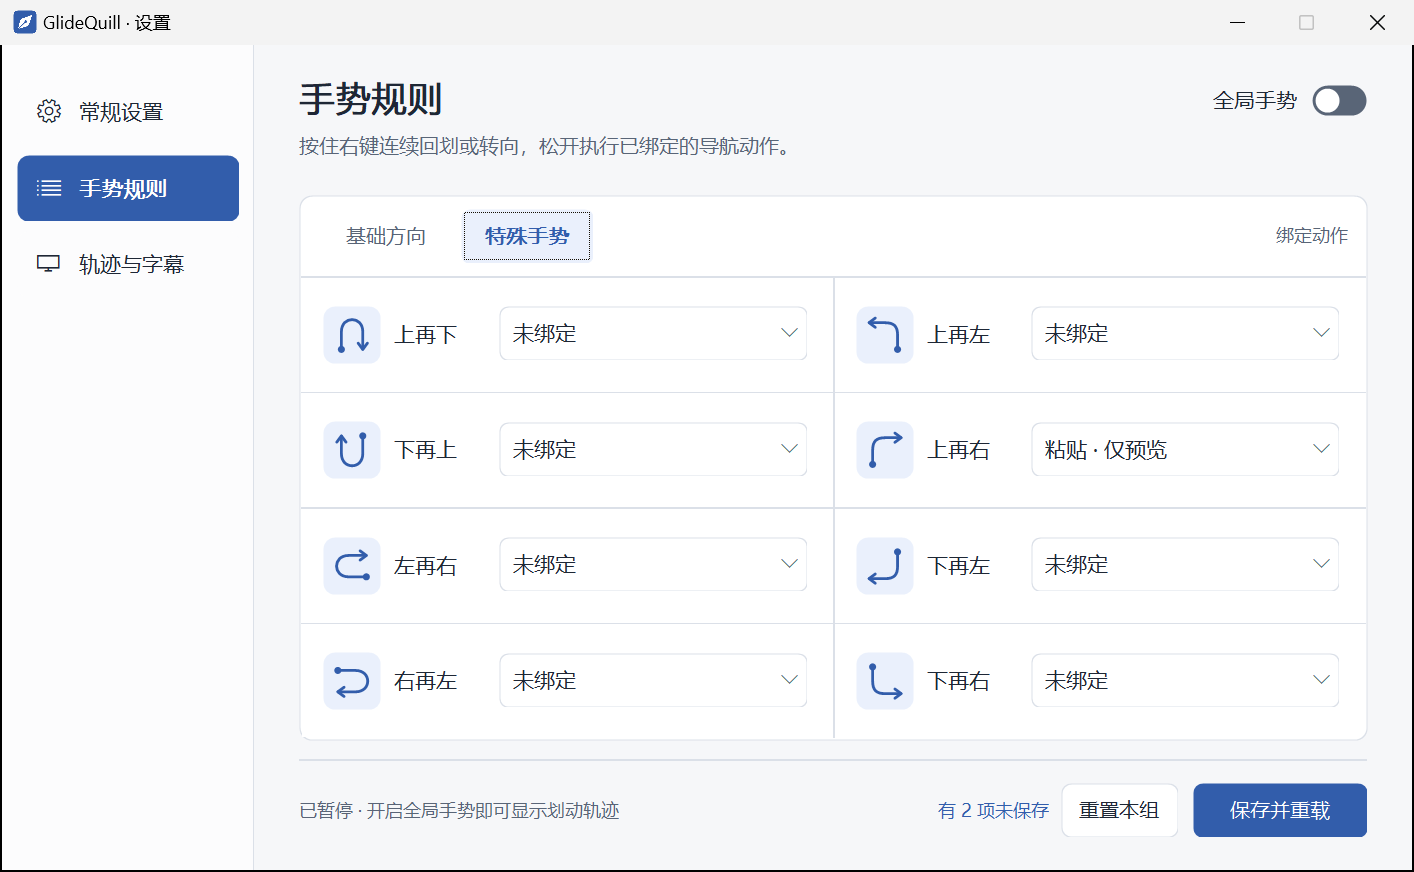
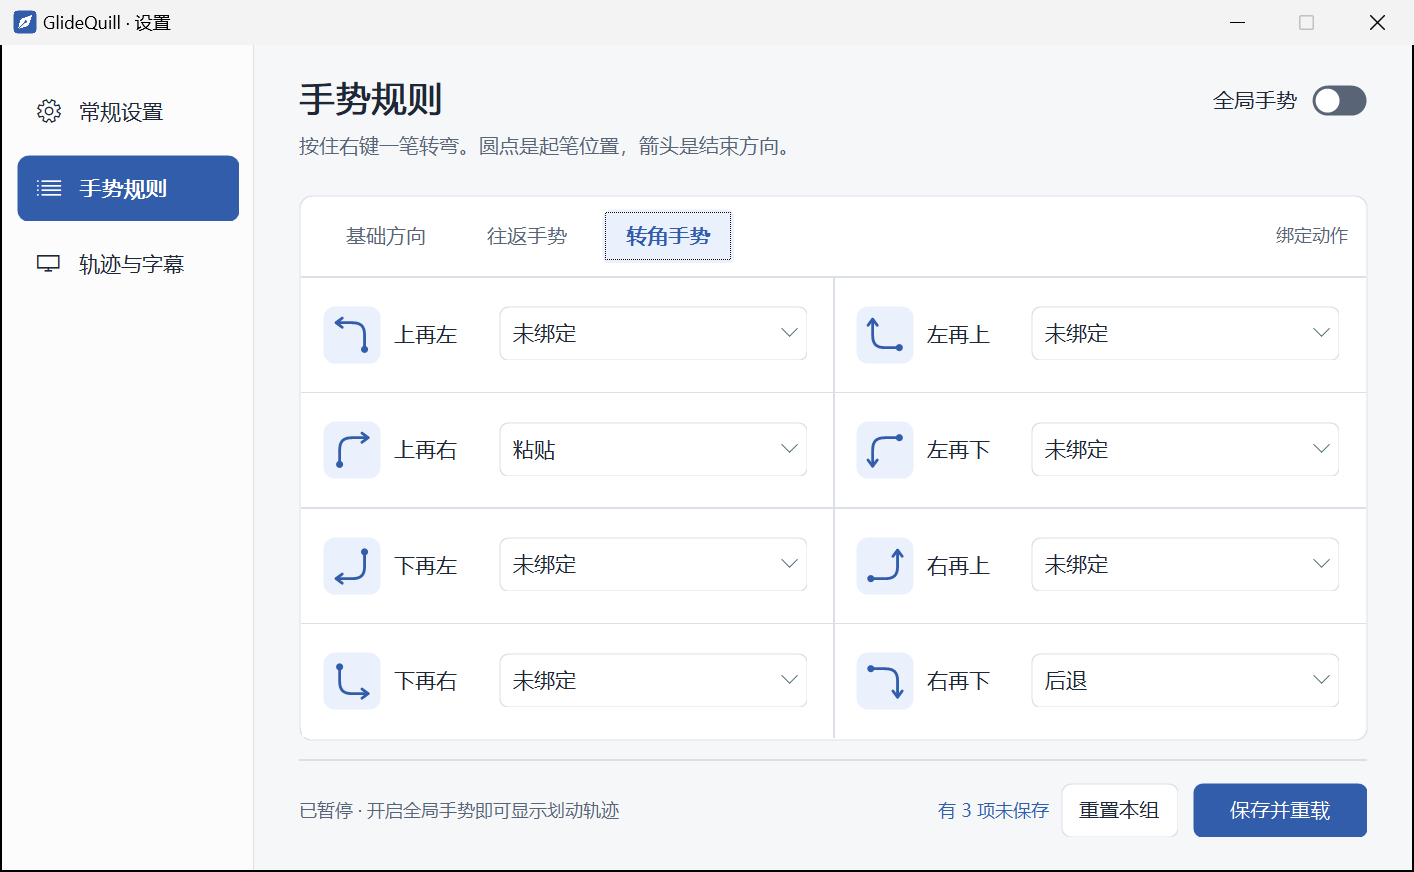
feat(gestures): recognize and configure all eight corner strokes
Append four horizontal-first corners while retaining legacy binding indices. Separate directional, return, and corner rules and verify their draft, reset, and reload behavior. Track the remaining MouseInc feature groups in the Windows requirements.

diff --git a/src/ui.rs b/src/ui.rs
@@ -595,10 +595,20 @@ fn control_bounds(id: i32) -> [i32; 4] {
             [l.right - space - 94, y, 94, h]
         }
         TOGGLE => [l.right - 113, 20, 113, 34],
-        BASIC_TAB if l.roomy => [l.left + 14, l.card_top + 9, 88, 36],
-        SPECIAL_TAB if l.roomy => [l.left + 108, l.card_top + 9, 88, 36],
-        BASIC_TAB => [l.left + 10, l.card_top + 7, 80, 30],
-        SPECIAL_TAB => [l.left + 96, l.card_top + 7, 80, 30],
+        BASIC_TAB | RETURN_TAB | CORNER_TAB => {
+            let (inset, gap, width, height) = if l.roomy {
+                (14, 6, 88, 36)
+            } else {
+                (10, 5, 77, 30)
+            };
+            let column = RULE_TABS.iter().position(|&tab| tab == id).unwrap() as i32;
+            [
+                l.left + inset + column * (width + gap),
+                l.card_top + (if l.roomy { 9 } else { 7 }),
+                width,
+                height,
+            ]
+        }
         RESET_RULES if l.roomy => [l.right - 204, l.height - 58, 78, 36],
         SAVE_RULES if l.roomy => [l.right - 116, l.height - 58, 116, 36],
         RESET_RULES => [l.right - 180, l.height - 48, 68, 32],
@@ -635,9 +645,16 @@ fn control_bounds(id: i32) -> [i32; 4] {
         ],
         _ => {
             let picker = id >= PICKER;
-            let index = (id - if picker { PICKER } else { RULE_ROW }) % BASIC_COUNT as i32;
-            let x = l.left + 1 + index / 4 * l.column;
-            let y = l.row_start + index % 4 * l.row_height;
+            let index = (id - if picker { PICKER } else { RULE_ROW }) as usize;
+            let (slot, rows) = if index < BASIC_COUNT {
+                (index, 4)
+            } else if index < FIRST_CORNER {
+                (index - BASIC_COUNT, 2)
+            } else {
+                (index - FIRST_CORNER, 4)
+            };
+            let x = l.left + 1 + (slot / rows) as i32 * l.column;
+            let y = l.row_start + (slot % rows) as i32 * l.row_height;
             let (label, height, gap) = if l.roomy {
                 (132, 36, 18)
             } else {
@@ -675,7 +692,8 @@ fn controls() -> impl Iterator<Item = i32> {
         LINGER,
         RESULT,
         BASIC_TAB,
-        SPECIAL_TAB,
+        RETURN_TAB,
+        CORNER_TAB,
         RESET_RULES,
         SAVE_RULES,
     ]
@@ -697,7 +715,7 @@ fn visible_on(id: i32, page: Page) -> bool {
         ADD_APP | REMOVE_APP | SAVE_APPS | BACK | APP_LIST => page == Page::Exclusions,
         DIRTY_RULES => page == Page::Rules,
         TOGGLE => matches!(page, Page::Rules | Page::General),
-        RESET_RULES | SAVE_RULES | BASIC_TAB | SPECIAL_TAB => page == Page::Rules,
+        RESET_RULES | SAVE_RULES | BASIC_TAB | CORNER_TAB | RETURN_TAB => page == Page::Rules,
         id if (RULE_ROW..RULE_ROW + COUNT).contains(&id) => {
             page == Page::Rules && rule_range().contains(&((id - RULE_ROW) as usize))
         }
@@ -838,7 +856,8 @@ pub unsafe fn build() {
             (Page::Feedback as i32, Page::Feedback.title()),
             (TOGGLE, "启用全局手势"),
             (BASIC_TAB, "基础方向"),
-            (SPECIAL_TAB, "特殊手势"),
+            (RETURN_TAB, "往返手势"),
+            (CORNER_TAB, "转角手势"),
             (RESET_RULES, "重置本组"),
             (SAVE_RULES, "保存并重载"),
             (AUTOSTART, "启用登录自启"),
@@ -1008,12 +1027,15 @@ unsafe fn stop_slide(w: HWND, id: i32) {
 }
 fn adjacent_control(id: i32, key: usize) -> Option<i32> {
     use windows_sys::Win32::UI::Input::KeyboardAndMouse::{VK_DOWN, VK_LEFT, VK_RIGHT, VK_UP};
-    if matches!(id, BASIC_TAB | SPECIAL_TAB) && matches!(key as u16, VK_LEFT | VK_RIGHT) {
-        return Some(if id == BASIC_TAB {
-            SPECIAL_TAB
+    if let Some(index) = RULE_TABS.iter().position(|&tab| tab == id)
+        && matches!(key as u16, VK_LEFT | VK_RIGHT)
+    {
+        let step = if key as u16 == VK_LEFT {
+            RULE_TABS.len() - 1
         } else {
-            BASIC_TAB
-        });
+            1
+        };
+        return Some(RULE_TABS[(index + step) % RULE_TABS.len()]);
     }
     let index = Page::ALL.iter().position(|p| *p as i32 == id)?;
     let len = Page::ALL.len();
@@ -1242,8 +1264,11 @@ pub unsafe fn paint(w: HWND) {
             0,
         );
         let description = match page {
-            Page::Rules if SPECIAL_GROUP.with(Cell::get) => {
-                "按住右键连续回划或转向，松开执行已绑定的动作。"
+            Page::Rules if ACTIVE_TAB.get() == RETURN_TAB => {
+                "按住右键连续回划，沿小弧线返回后松开。"
+            }
+            Page::Rules if ACTIVE_TAB.get() == CORNER_TAB => {
+                "按住右键一笔转弯。圆点是起笔位置，箭头是结束方向。"
             }
             Page::Rules => "松开右键执行绑定动作。修改绑定后点击「保存并重载」。",
             Page::General => "管理手势的运行状态、生效范围与窗口外观。",
@@ -1260,13 +1285,14 @@ pub unsafe fn paint(w: HWND) {
             0,
         );
         if page == Page::Rules {
+            let rows = rule_range().len() as i32 / 2;
             panel(
                 dc,
                 bounds(
                     l.left,
                     l.card_top,
                     l.right,
-                    l.row_start + l.row_height * 4 + 1,
+                    l.row_start + l.row_height * rows + 1,
                 ),
                 p.surface,
                 p.edge,
@@ -1281,7 +1307,7 @@ pub unsafe fn paint(w: HWND) {
                 p.muted,
                 DT_RIGHT,
             );
-            for row in 0..4 {
+            for row in 0..rows {
                 let y = l.row_start + row * l.row_height;
                 fill(dc, bounds(l.left + 1, y, l.right - 1, y + 1), p.edge);
             }
@@ -1291,7 +1317,7 @@ pub unsafe fn paint(w: HWND) {
                     l.left + 1 + l.column,
                     l.row_start + 1,
                     l.left + 2 + l.column,
-                    l.row_start + 4 * l.row_height,
+                    l.row_start + rows * l.row_height,
                 ),
                 p.edge,
             );
@@ -1443,8 +1469,8 @@ pub unsafe fn item(item: &DRAWITEMSTRUCT) {
                     0,
                 );
             }
-        } else if id == BASIC_TAB || id == SPECIAL_TAB {
-            let active = (id == SPECIAL_TAB) == SPECIAL_GROUP.with(Cell::get);
+        } else if RULE_TABS.contains(&id) {
+            let active = id == ACTIVE_TAB.get();
             fill(dc, r, p.surface);
             rounded(
                 dc,

diff --git a/src/lib.rs b/src/lib.rs
@@ -19,9 +19,13 @@ pub enum Gesture {
     UpThenRight,
     DownThenLeft,
     DownThenRight,
+    LeftThenUp,
+    LeftThenDown,
+    RightThenUp,
+    RightThenDown,
 }
 pub const BASIC_COUNT: usize = 8;
-pub const GESTURES: [Gesture; 16] = [
+pub const GESTURES: [Gesture; 20] = [
     Gesture::Left,
     Gesture::Right,
     Gesture::Up,
@@ -38,6 +42,10 @@ pub const GESTURES: [Gesture; 16] = [
     Gesture::UpThenRight,
     Gesture::DownThenLeft,
     Gesture::DownThenRight,
+    Gesture::LeftThenUp,
+    Gesture::LeftThenDown,
+    Gesture::RightThenUp,
+    Gesture::RightThenDown,
 ];
 
 impl Gesture {
@@ -65,6 +73,10 @@ impl Gesture {
             Self::UpThenRight => "上再右",
             Self::DownThenLeft => "下再左",
             Self::DownThenRight => "下再右",
+            Self::LeftThenUp => "左再上",
+            Self::LeftThenDown => "左再下",
+            Self::RightThenUp => "右再上",
+            Self::RightThenDown => "右再下",
         }
     }
     pub const fn arrow(self) -> &'static str {
@@ -85,6 +97,10 @@ impl Gesture {
             Self::UpThenRight => "↑→",
             Self::DownThenLeft => "↓←",
             Self::DownThenRight => "↓→",
+            Self::LeftThenUp => "←↑",
+            Self::LeftThenDown => "←↓",
+            Self::RightThenUp => "→↑",
+            Self::RightThenDown => "→↓",
         }
     }
 }
@@ -145,7 +161,7 @@ const UP: Axis = (0., -1.);
 const DOWN: Axis = (0., 1.);
 const LEFT: Axis = (-1., 0.);
 const RIGHT: Axis = (1., 0.);
-const TWO_LEG: [(Gesture, Axis, Axis); 8] = [
+const TWO_LEG: [(Gesture, Axis, Axis); 12] = [
     (Gesture::UpDown, UP, DOWN),
     (Gesture::DownUp, DOWN, UP),
     (Gesture::LeftRight, LEFT, RIGHT),
@@ -154,6 +170,10 @@ const TWO_LEG: [(Gesture, Axis, Axis); 8] = [
     (Gesture::UpThenRight, UP, RIGHT),
     (Gesture::DownThenLeft, DOWN, LEFT),
     (Gesture::DownThenRight, DOWN, RIGHT),
+    (Gesture::LeftThenUp, LEFT, UP),
+    (Gesture::LeftThenDown, LEFT, DOWN),
+    (Gesture::RightThenUp, RIGHT, UP),
+    (Gesture::RightThenDown, RIGHT, DOWN),
 ];
 #[derive(Default, Clone, Copy)]
 struct Travel {
@@ -334,7 +354,7 @@ mod tests {
         for points in [
             vec![(3, 2)],
             vec![(16, 16)],
-            vec![(60, 0), (60, 60)],
+            vec![(60, 0), (60, 60), (120, 60)],
             vec![(80, 0), (0, 0), (30, 0)],
         ] {
             let mut s = Stroke::new(0, 0);

diff --git a/src/main.rs b/src/main.rs
@@ -39,12 +39,15 @@ const DIRTY_RULES: i32 = 188;
 const RESET_RULES: i32 = 136;
 const SAVE_RULES: i32 = 137;
 const BASIC_TAB: i32 = 138;
-const SPECIAL_TAB: i32 = 139;
+const CORNER_TAB: i32 = 139;
+const RETURN_TAB: i32 = 191;
+const RULE_TABS: [i32; 3] = [BASIC_TAB, RETURN_TAB, CORNER_TAB];
+const FIRST_CORNER: usize = glidequill::Gesture::UpThenLeft as usize;
 fn rule_range() -> std::ops::Range<usize> {
-    if SPECIAL_GROUP.with(Cell::get) {
-        BASIC_COUNT..GESTURES.len()
-    } else {
-        0..BASIC_COUNT
+    match ACTIVE_TAB.get() {
+        RETURN_TAB => BASIC_COUNT..FIRST_CORNER,
+        CORNER_TAB => FIRST_CORNER..GESTURES.len(),
+        _ => 0..BASIC_COUNT,
     }
 }
 #[derive(Clone, Copy, PartialEq, Eq)]
@@ -77,7 +80,7 @@ const CLASS: &str = "GlideQuill.Rules.0.1";
 thread_local! {
     static TEST_INSTANCE:Cell<bool>=const{Cell::new(false)};
     static CONFIG_READABLE:Cell<bool>=const{Cell::new(true)};
-    static SPECIAL_GROUP: Cell<bool> = const { Cell::new(false) };
+    static ACTIVE_TAB: Cell<i32> = const { Cell::new(BASIC_TAB) };
     static PAGE:Cell<Page>=const{Cell::new(Page::Rules)};
     static STARTUP_ON:Cell<bool>=const{Cell::new(false)};
     static DARK:Cell<bool>=const{Cell::new(false)};
@@ -499,10 +502,8 @@ unsafe extern "system" fn proc(w: HWND, m: u32, wp: WPARAM, lp: LPARAM) -> LRESU
                         update_rule_buttons();
                         InvalidateRect(GetDlgItem(w, id), null_mut(), 0);
                     }
-                    BASIC_TAB | SPECIAL_TAB => {
-                        if SPECIAL_GROUP.with(|v| v.replace(id == SPECIAL_TAB))
-                            != (id == SPECIAL_TAB)
-                        {
+                    BASIC_TAB | RETURN_TAB | CORNER_TAB => {
+                        if ACTIVE_TAB.replace(id) != id {
                             ui::switch_group();
                             update_rule_buttons();
                         }

diff --git a/src/settings.rs b/src/settings.rs
@@ -26,24 +26,17 @@ pub struct Preferences {
     pub idle_ms: u32,
     pub result_ms: u32,
 }
-// Preserve bindings saved before the two-leg gestures were introduced.
+// New gestures are appended so the two previous on-disk layouts keep their indices.
 fn read_bindings<'de, D: serde::Deserializer<'de>>(
     d: D,
 ) -> Result<[glidequill::Action; glidequill::GESTURES.len()], D::Error> {
-    #[derive(Deserialize)]
-    #[serde(untagged)]
-    enum Saved {
-        Current([glidequill::Action; glidequill::GESTURES.len()]),
-        Basic([glidequill::Action; glidequill::BASIC_COUNT]),
+    let saved = Vec::<glidequill::Action>::deserialize(d)?;
+    if ![glidequill::BASIC_COUNT, 16, glidequill::GESTURES.len()].contains(&saved.len()) {
+        return Err(serde::de::Error::custom("绑定数量与支持的配置版本不符"));
     }
-    Ok(match Saved::deserialize(d)? {
-        Saved::Current(all) => all,
-        Saved::Basic(basic) => {
-            let mut all = glidequill::DEFAULT_BINDINGS;
-            all[..basic.len()].copy_from_slice(&basic);
-            all
-        }
-    })
+    let mut bindings = glidequill::DEFAULT_BINDINGS;
+    bindings[..saved.len()].copy_from_slice(&saved);
+    Ok(bindings)
 }
 const DEFAULTS: Preferences = Preferences {
     bindings: glidequill::DEFAULT_BINDINGS,

diff --git a/docs/Windows产品需求方案.md b/docs/Windows产品需求方案.md
@@ -1,10 +1,10 @@
 # GlideQuill（拂标）· Windows 产品需求方案
 
-核心优先评审稿 v0.22 ｜ 2026-11-19
+核心优先评审稿 v0.23 ｜ 2026-11-19
 
 ## 当前交付 · 手势导航与实际窗口反馈
 
-打开全局手势，在普通前台窗口按住鼠标右键划动，移动过程中绘制平滑轨迹。匹配到已绑定动作的方向时，在指针所在显示器工作区底部居中显示动作字幕，松开后默认保留 0.55 秒。识别使用原始输入采样。八条直线统归“基础方向”。左、右、上、下默认对应后退、前进、页面顶部、页面底部，四个斜向默认未绑定。每个方向可独立选择动作。鼠标移到已绑定的下拉框时，点 × 可清除该项。「特殊手势」分组支持四个往返与四个先竖后横的转角，默认未绑定。往返容许横向错位、圆弧折返和较短回程，转角按连续轨迹识别。设置页用起点和箭头示意整笔画法。「重置」恢复当前分组的默认值。上述修改暂存于窗口，点击「保存并重载」后统一用于下一笔手势。普通右击照常弹出菜单，未匹配的拖动显示“未识别”。后退、前进、页首和页尾已接入实际窗口。松键时按本笔起始绑定执行一次，停笔超时或切换前台窗口会取消。复制、粘贴、最小化、最大化／还原和关闭也已接入；升级后按已保存的绑定执行。
+打开全局手势，在普通前台窗口按住鼠标右键划动，移动过程中绘制平滑轨迹。匹配到已绑定动作的方向时，在指针所在显示器工作区底部居中显示动作字幕，松开后默认保留 0.55 秒。识别使用原始输入采样。八条直线统归“基础方向”。左、右、上、下默认对应后退、前进、页面顶部、页面底部，四个斜向默认未绑定。每个方向可独立选择动作。鼠标移到已绑定的下拉框时，点 × 可清除该项。四个往返和八个转角分别成组，均默认未绑定。转角支持纵向起笔和横向起笔。往返容许横向错位、圆弧折返和较短回程，转角按连续轨迹识别。设置页用起点和箭头示意整笔画法。「重置」恢复当前分组的默认值。上述修改暂存于窗口，点击「保存并重载」后统一用于下一笔手势。普通右击照常弹出菜单，未匹配的拖动显示“未识别”。后退、前进、页首和页尾已接入实际窗口。松键时按本笔起始绑定执行一次，停笔超时或切换前台窗口会取消。复制、粘贴、最小化、最大化／还原和关闭也已接入；升级后按已保存的绑定执行。
 
 主窗口通过左侧导航分为常规设置、手势规则和轨迹与字幕。各页支持记住启停、登录时自启到托盘、停笔后取消手势（默认 0.5 秒，可关闭）及松键后保留时间（可立即消失）。首次运行默认关闭手势与自启。独立练习区已移出当前范围。四个导航动作支持全部现有手势；按应用编辑、自定义录制与迁移留待后续。以下完整产品目标与原型用于后续设计评审。
 
@@ -26,7 +26,7 @@
 - 暂停全局手势时仍可编辑生效范围。重新开启后按已保存的范围工作。修改范围从下一笔手势生效。
 - 沿用 940 × 550 逻辑像素的默认内容区，首屏可见五项。缩小可用工作区时允许右侧内容纵向滚动，保留左侧导航。键盘可依次操作控件，返回排除列表的上一级后，焦点回到「排除的应用」。
 
-手势规则页汇总两个分组的未保存项数，改回原值会扣减。「重置本组」只改当前分组的草稿。停笔时长、松键后保留时长归「轨迹与字幕」。滚轮快切、边缘滚动和触发角继续按可选功能评估，正式可用后再考虑入口。
+手势规则页汇总三个分组的未保存项数，改回原值会扣减。「重置本组」只改当前分组的草稿。停笔时长、松键后保留时长归「轨迹与字幕」。滚轮快切、边缘滚动和触发角继续按可选功能评估，正式可用后再考虑入口。
 
 ## 1. 核心产品目标
 
@@ -93,8 +93,18 @@
 ## 6. 开发顺序
 
 1. **验证手感**。已在 Chrome 和资源管理器验证四个导航动作；继续按质量门槛测量真实鼠标使用中的误触和响应延迟。
-2. **可日用预览**。补齐录制编辑、应用排除、暂停恢复、旧配置导入预览，让用户带着自己的规则试用。
+2. **可日用预览**。补齐应用规则覆盖、录制编辑与旧配置导入预览，让用户带着自己的规则试用。
 3. **核心正式版**。按第 3、4 节验收，逐项公布旧配置支持情况；暂缓功能不阻塞发布。
+
+### MouseInc 功能对照与后续顺序
+
+| 批次 | 范围 | 当前状态与验收方式 |
+|---|---|---|
+| 基础手势与动作 | 八方向、往返、转角；导航、复制粘贴与窗口操作 | 本机 36 个旧模板中的 20 个形状已支持。9 个内置动作均已接入；普通右击、排除、停笔取消和草稿保存分别做回归。 |
+| 应用规则 | 按应用覆盖、应用组、浏览器标签页操作 | 待实现。用同一个方向分别在浏览器和普通窗口触发不同动作，保存前可发现冲突。 |
+| 模板与迁移 | 余下 16 个形状、旧配置导入、校验、回退 | 待实现。旧模板包含三段折线、方框和字母等，按附录逐项核对识别结果及绑定。 |
+| 鼠标扩展 | 右键加滚轮、边缘滚动、触发角、移动窗口、音量调节 | 待实现，作为可选功能分别启用，验证与普通右键、滚轮和游戏的兼容。 |
+| 辅助与图像 | 快捷菜单、按键回显与音效、输入法状态、目录跳转，以及截图、贴图、OCR | 辅助工具按需接入；截图与图像继续暂缓。 |
 
 迁移基线来自本机 MouseInc 2.13.4 配置。附录列出旧绑定，供迁移核对；其中高级动作会进入待支持状态。功能调研参考[原版动作目录](https://github.com/shuax/MouseInc.Settings/blob/main/docs/docs/action.md)和 [Aitiy 官方手册](https://aitiy.com/docs.html)。
 
